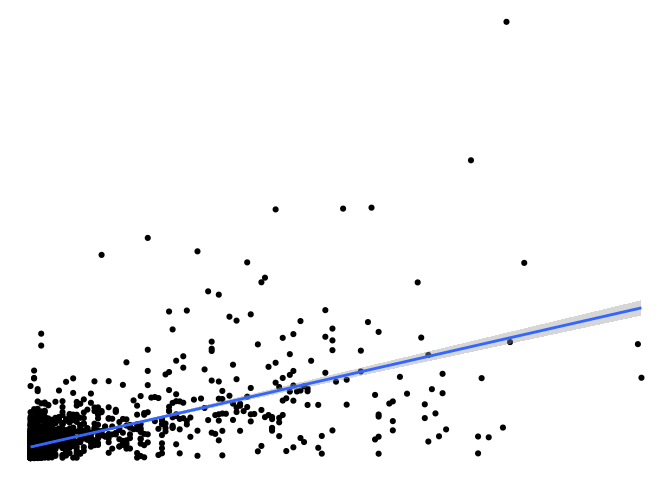
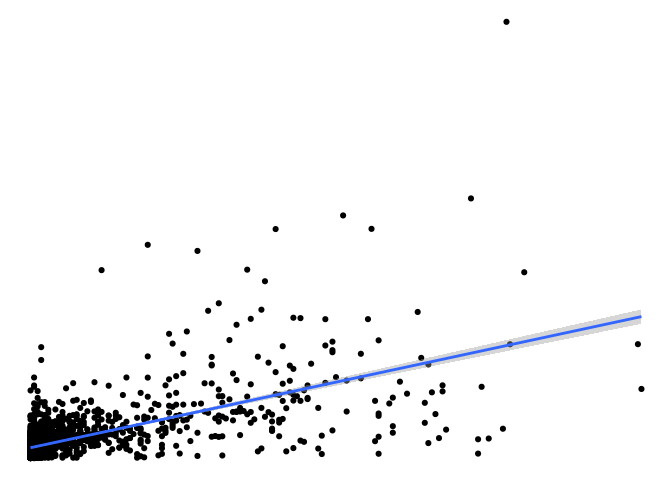
Refine inputs to model (#3)

diff --git a/README.md b/README.md
@@ -24,14 +24,57 @@ The package uses the [`{simodels}` R
 package](https://robinlovelace.github.io/simodels/) to pre-process the
 input datasets and generate the OD data used as the basis of the
 interaction prediction model. The input datasets are illustrated in the
-figure below:
+figure below (these are `zones_york` and `destinations_york` that are
+provided with the pacage):
 
 ![](README_files/figure-commonmark/inputs-1.png)
+
+Before we run any models let’s compare the total number of pupils in the
+zones dataset and the destinations dataset (they should be the same):
+
+``` r
+zone_overestimate_factor = 
+  (sum(zones_york$f0_to_15) + sum(zones_york$m0_to_15)) /
+    sum(destinations_york$n_pupils)
+zone_overestimate_factor
+```
+
+    [1] 1.194998
+
+As one would expect, the total number of pupils in the zones dataset is
+a bit bigger than the total number of pupils in the destinations
+dataset: not all people aged 0 to 15 go to school, especially those
+under school age. To tackle this issue we’ll create a new variables
+called `pupils_estimated` in the zones dataset, which is the sum of the
+number of pupils in the zones dataset and the number of pupils in the
+destinations dataset.
+
+``` r
+zones_york = zones_york |>
+  dplyr::mutate(
+    pupils_estimated = (f0_to_15 + m0_to_15) / zone_overestimate_factor
+  )
+```
+
+After the adjustment shown above, the totals in the origin and
+destination columns should be the same:
+
+``` r
+sum(zones_york$pupils_estimated)
+```
+
+    [1] 25631
+
+``` r
+sum(destinations_york$n_pupils)
+```
+
+    [1] 25631
 
 Based on these inputs the `si_to_od()` function generates the OD data,
 as shown below (note: 2 versions are created, one with a maximum
 distance constraint for speed of processing, important when working with
-large datasets):
+large datasets).
 
 ``` r
 max_dist = 5000 # meters
@@ -56,9 +99,9 @@ destination datasets, with the following column names:
      [9] "origin_f45_to_64"                  "origin_f65_and_over"              
     [11] "origin_m0_to_15"                   "origin_m16_to_29"                 
     [13] "origin_m30_to_44"                  "origin_m45_to_64"                 
-    [15] "origin_m65_and_over"               "destination_n_pupils"             
-    [17] "destination_phase"                 "destination_type_of_establishment"
-    [19] "geometry"                         
+    [15] "origin_m65_and_over"               "origin_pupils_estimated"          
+    [17] "destination_n_pupils"              "destination_phase"                
+    [19] "destination_type_of_establishment" "geometry"                         
 
 Let’s run a simple model:
 
@@ -71,21 +114,23 @@ od_res = simodels::si_calculate(
   od_from_si,
   fun = gravity_model,
   d = distance_euclidean,
-  m = origin_f0_to_15,
+  m = origin_pupils_estimated,
   n = destination_n_pupils,
 #   constraint_production = origin_all,
   beta = 0.9
   )
 ```
 
-We can assess the model fit, starting with a scatter plot and a simple
-R-squared test:
+We can assess the model fit at thre levels: the origin level (number of
+students departing from each zone), the destination level (the number
+arriving at each school in the input dataset) and the origin-destination
+level.
 
     `geom_smooth()` using formula = 'y ~ x'
 
 ![](README_files/figure-commonmark/r-squared-1.png)
 
-The R-squared value is 0.4.
+The R-squared value is 0.401.
 
 Let’s see if making the model production constrained can help:
 
@@ -94,11 +139,11 @@ od_res_constrained = simodels::si_calculate(
   od_from_si,
   fun = gravity_model,
   d = distance_euclidean,
-  m = origin_f0_to_15,
+  m = origin_pupils_estimated,
   n = destination_n_pupils,
-  constraint_production = origin_f0_to_15,
+  constraint_production = origin_pupils_estimated,
   beta = 0.9
   )
 ```
 
-The R-squared value is 0.562.
+The R-squared value is 0.57.
